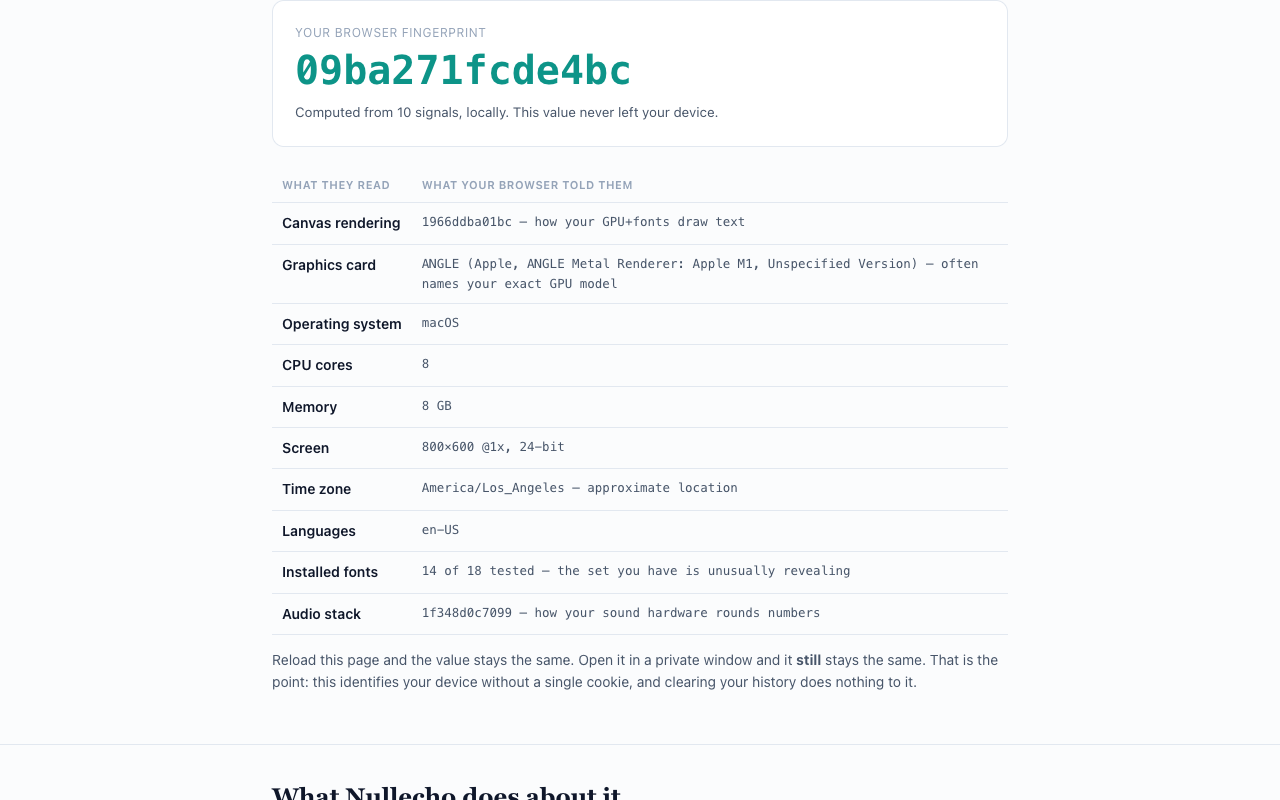
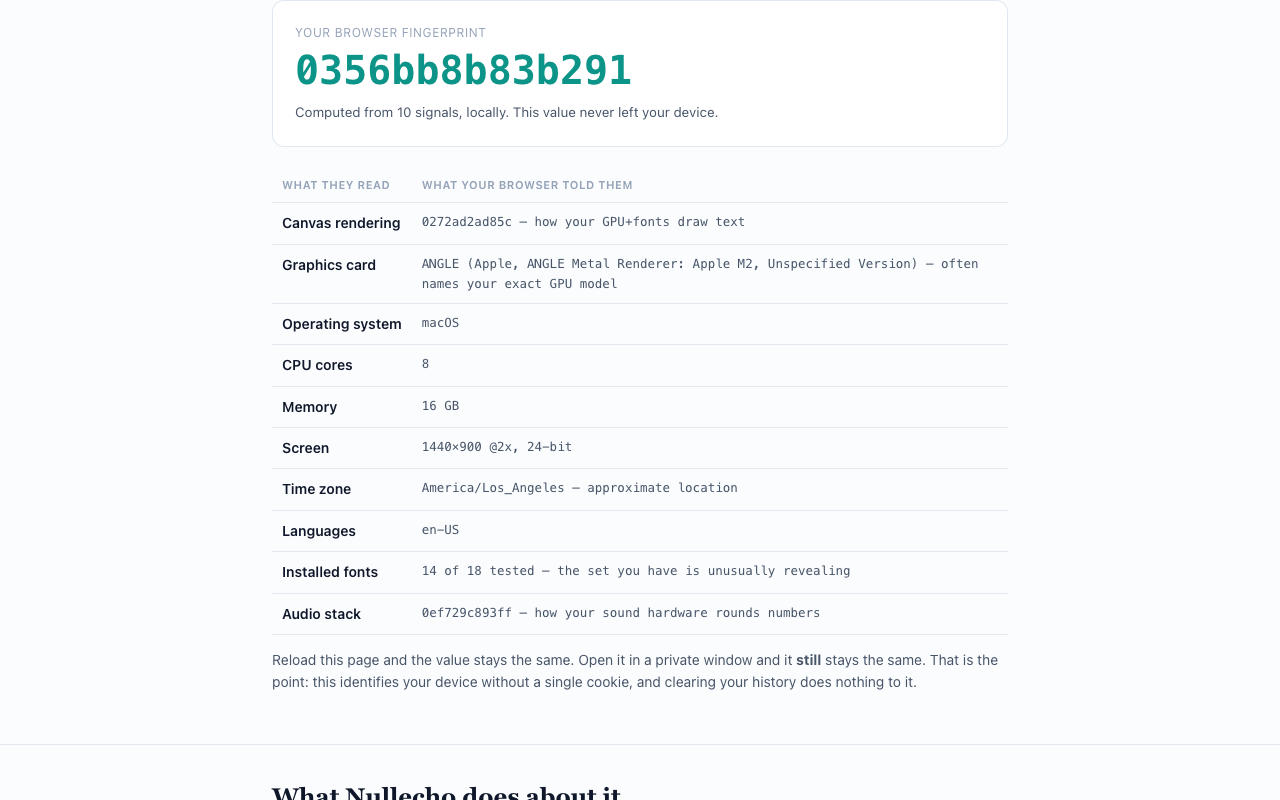
docs/store: reshoot 01 + 05 per director review, regenerate promo tile
01-popup-blocking-persona.png:
- Rebased onto 7829811 (popup Display row now reads the real display, not
  the persona's unused/spoofed screen) so the reshoot shows the fixed row.
- Dropped the host page (si.com) from the frame entirely — its branding and
  article photos of real people are third-party editorial content that must
  not appear in a store screenshot. The real page load (real counts, real
  persona) is unchanged; only the host-page screenshot is discarded, and the
  real popup (two real crops of it) is composited onto a plain #f6f3ec
  background instead. New composePopupOnPlainBackground() in
  harness/store-screenshots.mjs; composePopupShot() (used by the
  already-approved screenshot 2) is untouched.

05-prove-it-fingerprint-check.png:
- Chrome for Testing's headless "screen" defaults to 800x600 regardless of
  --window-size or page.setViewport() (verified directly: viewport and
  screen are independent in headless "new"), which made the live page's own
  honest Screen row read "800x600 @1x" — a real reading, but one that looks
  broken to a store visitor. Fixed by a raw CDP
  Emulation.setDeviceMetricsOverride call with explicit screenWidth/
  screenHeight (1440x900 @2x, a real MacBook-class Retina panel) alongside
  the normal 1280x800 viewport, which Puppeteer's own setViewport() cannot
  express. Captured PNG stays exactly 1280x800. This is the TEST BROWSER's
  configuration, not anything Nullecho does — documented in full in
[…]

diff --git a/docs/store/screenshots/README.md b/docs/store/screenshots/README.md
@@ -2,9 +2,9 @@
 
 One line per image: what it shows, the URL/state it was captured from, the capture date, and the command that reproduces it. See `docs/store/SCREENSHOT-PLAN.md` for the full plan and `harness/store-screenshots.mjs` for the capture script.
 
-- `01-popup-blocking-persona.png` — Toolbar popup on si.com — 160 requests blocked, 4 fingerprint reads seen, and the "What this site sees" device persona (system, graphics, CPU/RAM, display). Captured 2026-09-23 from: Real load of https://www.si.com/nba in Chrome for Testing with the unpacked extension; popup opened via chrome.action.openPopup() after settling/scrolling the page for several seconds so trackers actually fired. Reproduce: `node harness/store-screenshots.mjs 1`
+- `01-popup-blocking-persona.png` — Toolbar popup — 144 requests blocked, 4 fingerprint reads seen, and the "What this site sees" device persona (system, graphics, CPU/RAM, display), on a plain #f6f3ec background (no third-party page content in frame; the popup's own small label still names the real site measured, si.com). Captured 2026-09-23 from: Real load of https://www.si.com/nba in Chrome for Testing with the unpacked extension, settled/scrolled for several seconds so trackers actually fired; popup opened via chrome.action.openPopup(). The host page's own screenshot was discarded — only the popup (two real, unedited crops of it) was composited onto the plain background. Reproduce: `node harness/store-screenshots.mjs 1`
 - `02-popup-price-disclosure.png` — Toolbar popup showing the price-disclosure panel: "This page carries New York’s algorithmic-pricing disclosure" and the published price (Price published on this page: 128.00 USD). Captured 2026-09-23 from: Local fixture page (harness/fixtures/pricing-disclosure.html, served over http:// — file:// is excluded by the content script's matches list) carrying the exact N.Y. Gen. Bus. Law § 349-a sentence and a schema.org Offer with a machine-readable price. No live retailer page reliably carries both without a login (research/NY-349A-COMPLIANCE-SWEEP.md); this stands in rather than misrepresenting a real business. Reproduce: `node harness/store-screenshots.mjs 2`
 - `03-options-blocking-gpc.png` — Options page — blocking-category toggles (ads, analytics, social, fingerprinting) and the Global Privacy Control section, light mode. Captured 2026-09-23 from: chrome-extension://<id>/options/options.html#blocking in the same running install, light mode forced via emulateMediaFeatures. Reproduce: `node harness/store-screenshots.mjs 3`
 - `04-options-limits.png` — Options page — "What Nullecho can’t do": the honesty/limits section (detectability, Firefox/Brave being stronger, IP/TLS out of reach, WASM fingerprinting, etc.), light mode. Captured 2026-09-23 from: chrome-extension://<id>/options/options.html#limits in the same running install, light mode forced via emulateMediaFeatures. Reproduce: `node harness/store-screenshots.mjs 4`
-- `05-prove-it-fingerprint-check.png` — nullecho.org/prove-it after clicking "Show me my fingerprint" — the hero fingerprint value and the per-API results table, measured live with the extension installed and on. Captured 2026-09-23 from: https://nullecho.org/prove-it/ (the live site named in this listing’s "Notes to reviewer"), #run clicked, waited for #out/#rows/#verdict to populate. Reproduce: `node harness/store-screenshots.mjs 5`
+- `05-prove-it-fingerprint-check.png` — nullecho.org/prove-it after clicking "Show me my fingerprint" — the hero fingerprint value and the per-API results table, measured live with the extension installed and on. Captured 2026-09-23 from: https://nullecho.org/prove-it/ (the live site named in this listing's "Notes to reviewer"), #run clicked, waited for #out/#rows/#verdict to populate. Screen row reads 1440×900 · 2x, 24-bit: this test browser's window was given a realistic screen via a raw CDP `Emulation.setDeviceMetricsOverride` call (screenWidth/screenHeight 1440×900, deviceScaleFactor 2 — a real MacBook-class Retina panel) instead of Chrome for Testing's headless default of 800×600 @1x, which looked broken. This is the TEST BROWSER's configuration; Nullecho itself reports the screen honestly either way (ext/options/options.html#limits: "Screen dimensions... are reported honestly"). The capture stayed at 1280×800 @1x for the output PNG. Reproduce: `node harness/store-screenshots.mjs 5`
 - `promo-440x280.png` — Small promotional tile — cropped from Screenshot 1’s popup header + blocked/fingerprint counts at reduced size. Captured 2026-09-23 from: Crop of docs/store/screenshots/01-popup-blocking-persona.png (same run), no new capture. Reproduce: `node harness/store-screenshots.mjs 1 promo`
